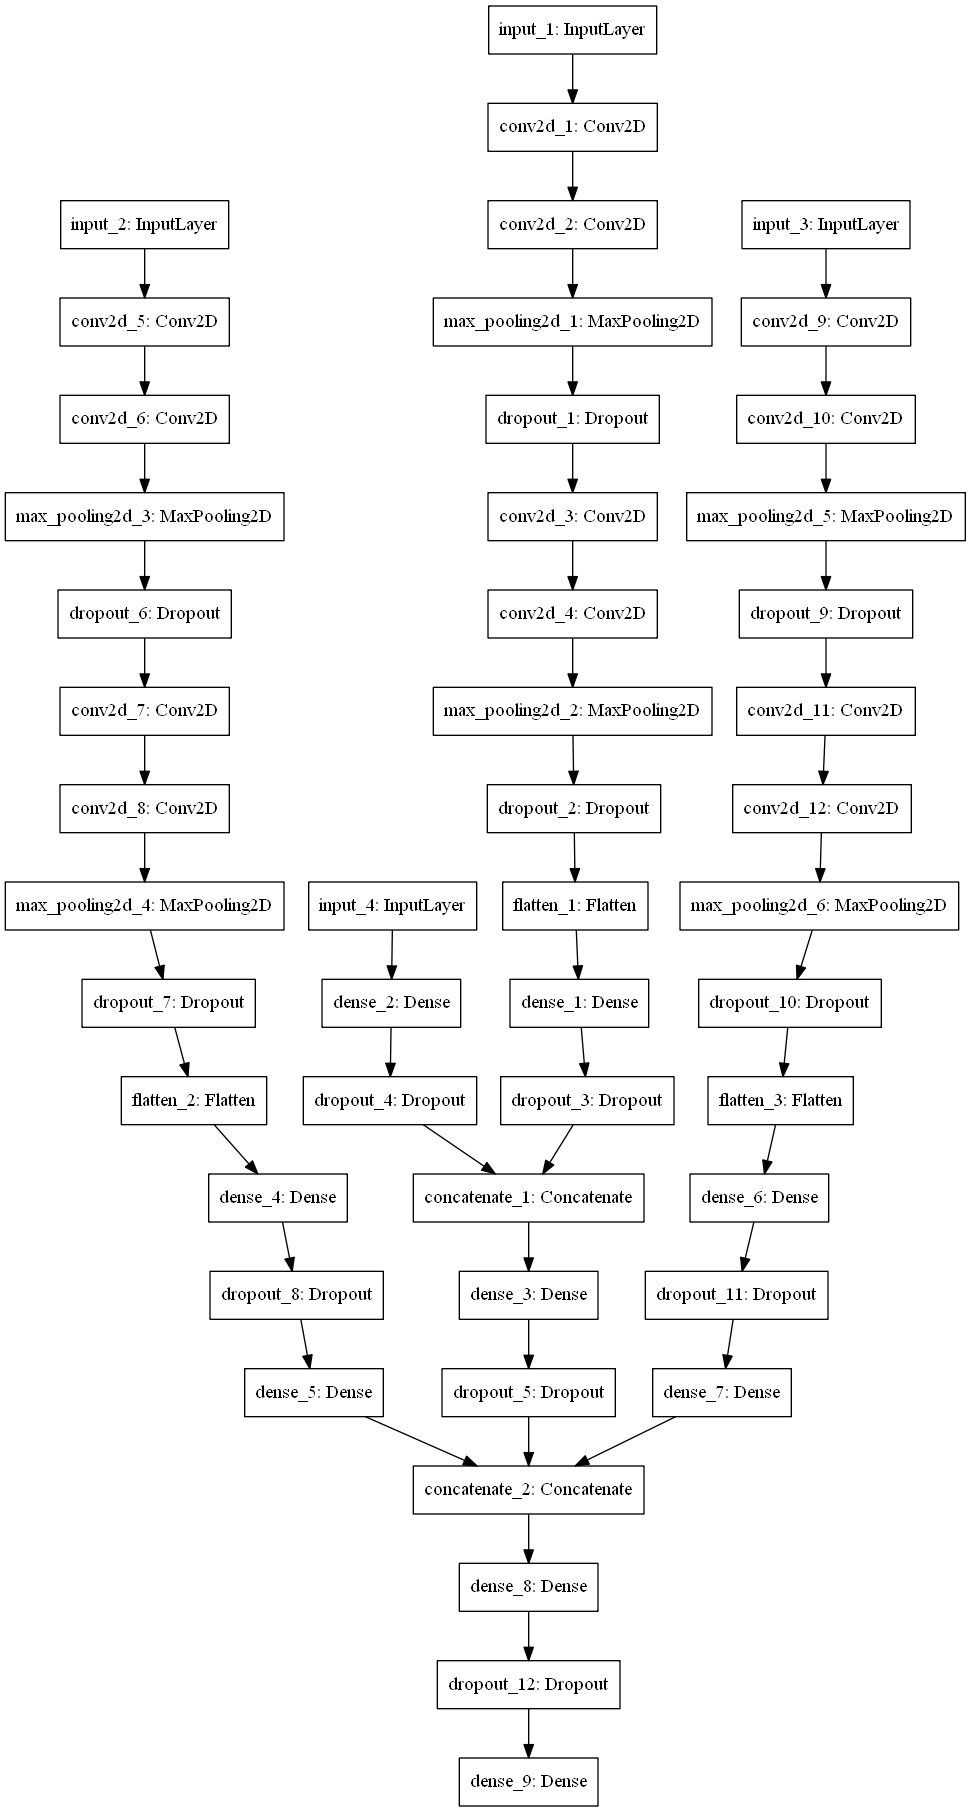
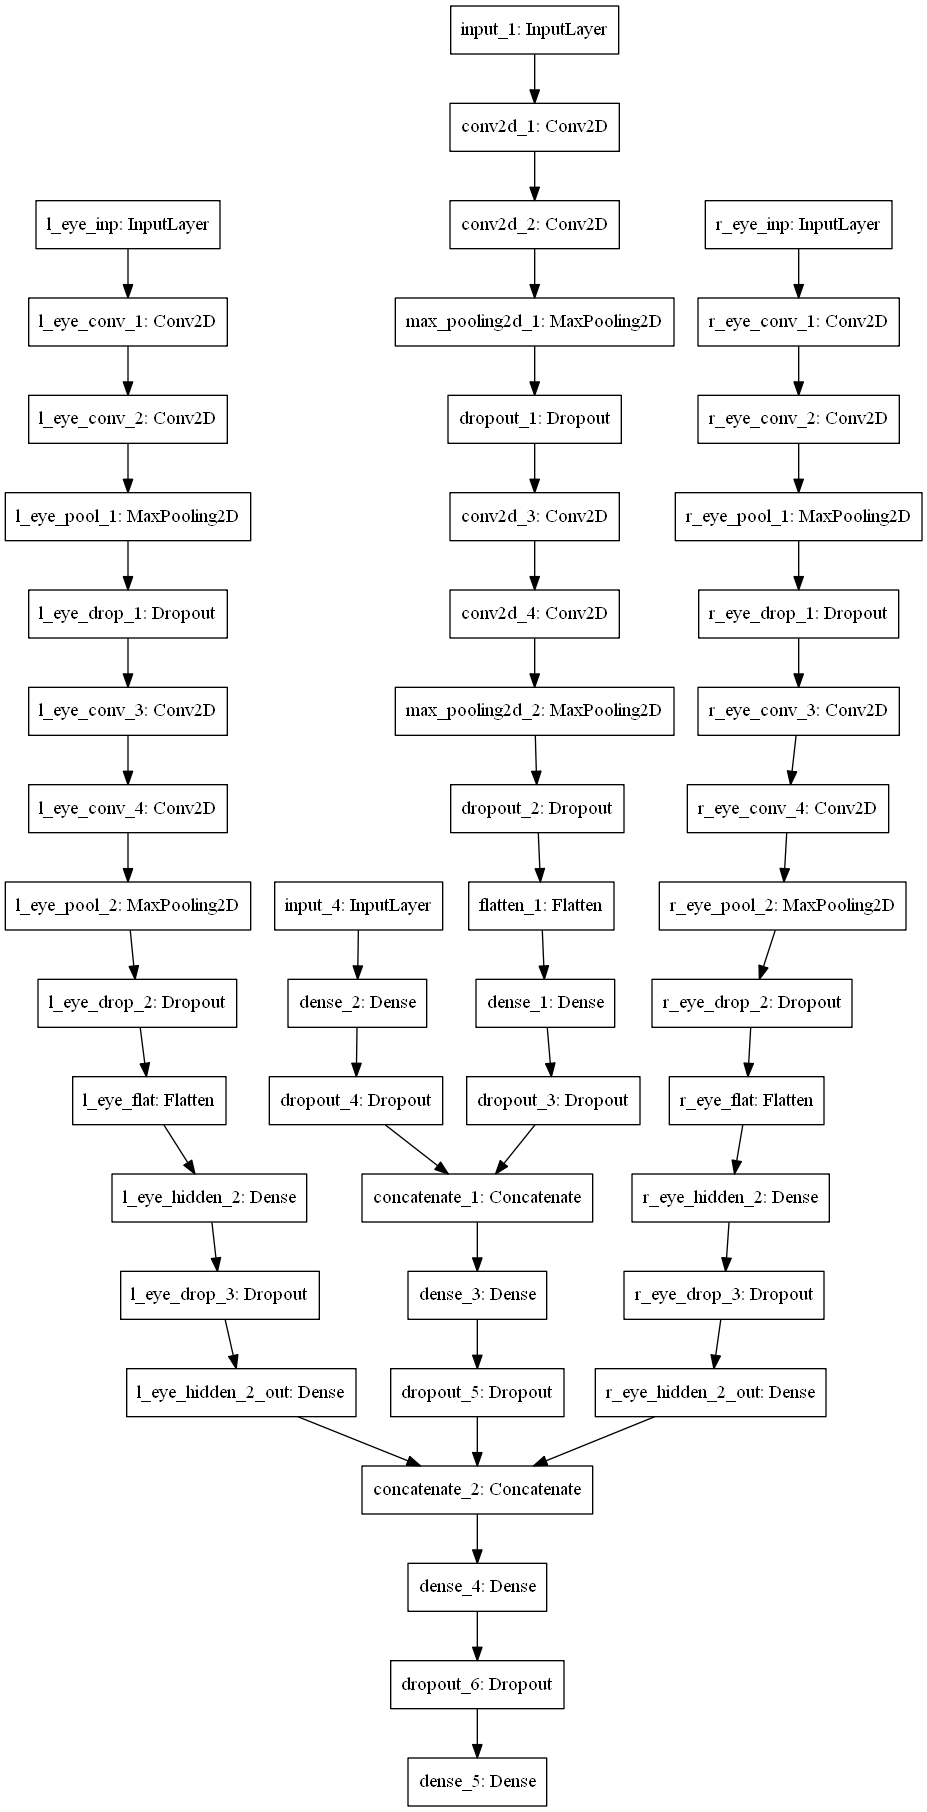
csv writer

diff --git a/open_close/cords_nn.py b/open_close/cords_nn.py
@@ -11,6 +11,27 @@ import os
 #import img_processor as prcs
 import os
 os.environ["PATH"] += os.pathsep + 'C:/Program Files (x86)/Graphviz2.38/bin/'
+def mk_eye_cbase(s):
+    inp_eye = Input(shape=(64, 64, 3), name = '{}_eye_inp'.format(s)) # файнтюним ocm модель #будет ли он тренировать их раздельно?
+    conv_1 = Convolution2D(conv_depth_1, kernel_size, kernel_size, border_mode='same', activation='relu', name = '{}_eye_conv_1'.format(s))(inp_eye)
+    conv_2 = Convolution2D(conv_depth_1, kernel_size, kernel_size, border_mode='same', activation='relu', name = '{}_eye_conv_2'.format(s))(conv_1)
+    pool_1 = MaxPooling2D(pool_size=(pool_size, pool_size), name = '{}_eye_pool_1'.format(s))(conv_2)
+    drop_1 = Dropout(drop_prob_1, name = '{}_eye_drop_1'.format(s))(pool_1)
+    # Conv [64] -> Conv [64] -> Pool (with dropout on the pooling layer)
+    conv_3 = Convolution2D(conv_depth_2, kernel_size, kernel_size, border_mode='same', activation='relu', name = '{}_eye_conv_3'.format(s))(drop_1)
+    conv_4 = Convolution2D(conv_depth_2, kernel_size, kernel_size, border_mode='same', activation='relu', name = '{}_eye_conv_4'.format(s))(conv_3)
+    pool_2 = MaxPooling2D(pool_size=(pool_size, pool_size), name = '{}_eye_pool_2'.format(s))(conv_4)
+    drop_2 = Dropout(drop_prob_1, name = '{}_eye_drop_2'.format(s))(pool_2)
+    # Now flatten to 1D, apply FC -> ReLU (with dropout) -> softmax
+    flat = Flatten(name = '{}_eye_flat'.format(s))(drop_2)
+    hidden = Dense(hidden_size, activation='relu', name = '{}_eye_hidden_2'.format(s))(flat)
+    drop_3 = Dropout(drop_prob_2, name = '{}_eye_drop_3'.format(s))(hidden)
+    out = Dense(hidden_size, activation='relu', name = '{}_eye_hidden_2_out'.format(s))(drop_3)
+    model = Model(inputs = inp_eye, outputs = out)
+    for l, w in zip(model.layers[1:6], ocm.layers[1:6]):
+        l.set_weights(w.get_weights())
+    return model
+
 
 ###############################################
 batch_size = 32 # in each iteration, we consider 32 training examples at once
@@ -26,7 +47,8 @@ hidden_size = 512 # the FC layer will have 512 neurons
 ###############################################
 
 #model
-eye_cbase = keras.models.load_model('open-close Sat Jan 18 18.27.05 2020.h5')
+ocm = keras.models.load_model('open-close Sat Jan 18 18.27.05 2020.h5')
+weights_eye = ocm.get_weights()
 eye_cbase1 = keras.models.load_model('open-close Sat Jan 18 18.27.05 2020.h5')
 
 #inputs
@@ -60,38 +82,11 @@ c1_hidden = Dense(128, activation='relu')(lm_og_concatenate)
 c1_drop_3 = Dropout(drop_prob_2)(c1_hidden)
 
 #eye conv base
-conv_1_l = Convolution2D(conv_depth_1, kernel_size, kernel_size, border_mode='same', activation='relu')(inp_eye_l)
-conv_2_l = Convolution2D(conv_depth_1, kernel_size, kernel_size, border_mode='same', activation='relu')(conv_1_l)
-pool_1_l = MaxPooling2D(pool_size=(pool_size, pool_size))(conv_2_l)
-drop_1_l = Dropout(drop_prob_1)(pool_1_l)
-# Conv [64] -> Conv [64] -> Pool (with dropout on the pooling layer)
-conv_3_l = Convolution2D(conv_depth_2, kernel_size, kernel_size, border_mode='same', activation='relu')(drop_1_l)
-conv_4_l = Convolution2D(conv_depth_2, kernel_size, kernel_size, border_mode='same', activation='relu')(conv_3_l)
-pool_2_l = MaxPooling2D(pool_size=(pool_size, pool_size))(conv_4_l)
-drop_2_l = Dropout(drop_prob_1)(pool_2_l)
-# Now flatten to 1D, apply FC -> ReLU (with dropout) -> softmax
-flat_l = Flatten()(drop_2_l)
-hidden_l = Dense(hidden_size, activation='relu')(flat_l)
-drop_3_l = Dropout(drop_prob_2)(hidden_l)
-out_l = Dense(hidden_size, activation='relu')(drop_3_l)
-
-conv_1_r = Convolution2D(conv_depth_1, kernel_size, kernel_size, border_mode='same', activation='relu')(inp_eye_r)
-conv_2_r = Convolution2D(conv_depth_1, kernel_size, kernel_size, border_mode='same', activation='relu')(conv_1_r)
-pool_1_r = MaxPooling2D(pool_size=(pool_size, pool_size))(conv_2_r)
-drop_1_r = Dropout(drop_prob_1)(pool_1_r)
-# Conv [64] -> Conv [64] -> Pool (with dropout on the pooling layer)
-conv_3_r = Convolution2D(conv_depth_2, kernel_size, kernel_size, border_mode='same', activation='relu')(drop_1_r)
-conv_4_r = Convolution2D(conv_depth_2, kernel_size, kernel_size, border_mode='same', activation='relu')(conv_3_r)
-pool_2_r = MaxPooling2D(pool_size=(pool_size, pool_size))(conv_4_r)
-drop_2_r = Dropout(drop_prob_1)(pool_2_r)
-# Now flatten to 1D, apply FC -> ReLU (with dropout) -> softmax
-flat_r = Flatten()(drop_2_r)
-hidden_r = Dense(hidden_size, activation='relu')(flat_r)
-drop_3_r = Dropout(drop_prob_2)(hidden_r)
-out_r = Dense(hidden_size, activation='relu')(drop_3_r)
+eye_l = mk_eye_cbase('l')
+eye_r = mk_eye_cbase('r')
 
 #concatenate
-eye_concatenate = Concatenate(axis=-1)([out_l, out_r, c1_drop_3])
+eye_concatenate = Concatenate(axis=-1)([eye_l.output, eye_r.output, c1_drop_3])
 c2_hidden = Dense(hidden_size, activation='relu')(eye_concatenate)
 c2_drop_3 = Dropout(drop_prob_2)(c2_hidden)
 
@@ -99,9 +94,12 @@ c2_drop_3 = Dropout(drop_prob_2)(c2_hidden)
 out = Dense(2, activation='softmax')(c2_drop_3)
 
 #model
-model = Model(input=[inp_og, inp_lm, inp_eye_l, inp_eye_r], output=out)
+model = Model(input=[inp_og, inp_lm, eye_l.input, eye_r.input], output=out)
 
-keras.utils.plot_model(model, 'main model.png')
+#keras.utils.plot_model(model, 'main model.png')
+w1 = model.get_layer('l_eye_conv_1').get_weights()
+m_og = ocm.layers[1].get_weights()
+print('\n/n ravno&&&', np.array_equal(w1, m_og), 'm_og=', m_og, 'w1=', w1)
 #load data
 def load():
     img_l, targets = prcs.load_images(r'C:\Users\anpopaicoconat\source\repos\detector\detector\data\coords\pasha 1')

diff --git a/open_close/img_processor.py b/open_close/img_processor.py
@@ -5,6 +5,7 @@ import os
 import dlib
 import time
 import keras
+import csv
 
 #загрузка моделей
 detector = dlib.get_frontal_face_detector()
@@ -73,4 +74,7 @@ def f():
         cv2.imwrite(r'C:\Users\anpopaicoconat\source\repos\train_data\left\\'+n, l)
         cv2.imwrite(r'C:\Users\anpopaicoconat\source\repos\train_data\right\\'+n, r)
         cv2.imwrite(r'C:\Users\anpopaicoconat\source\repos\train_data\og\\'+n, i)
+        with open(r'C:\Users\anpopaicoconat\source\repos\train_data\landmarks.csv', "a", encoding="utf-8", newline="") as fh:
+            writer = csv.DictWriter(fh, fieldnames=["c"], quoting=csv.QUOTE_ALL)
+            writer.writerow(dict(c=c))
 f()
